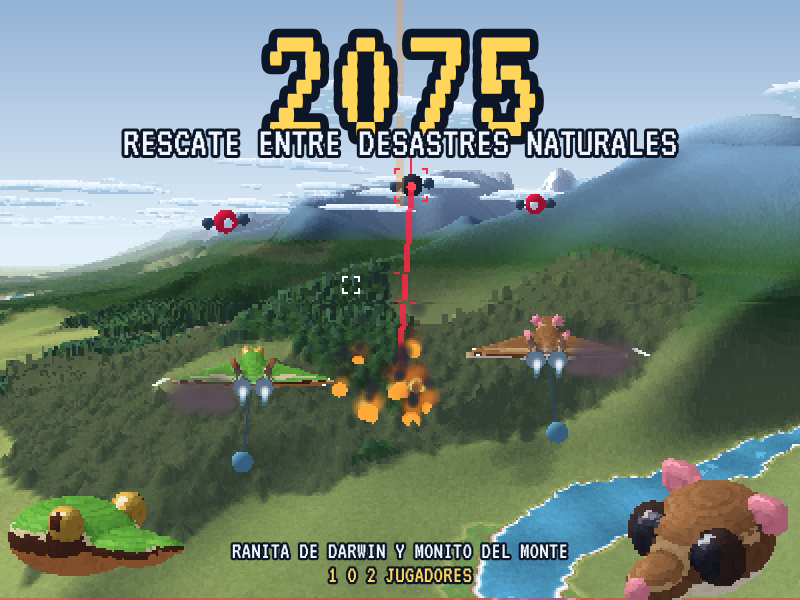
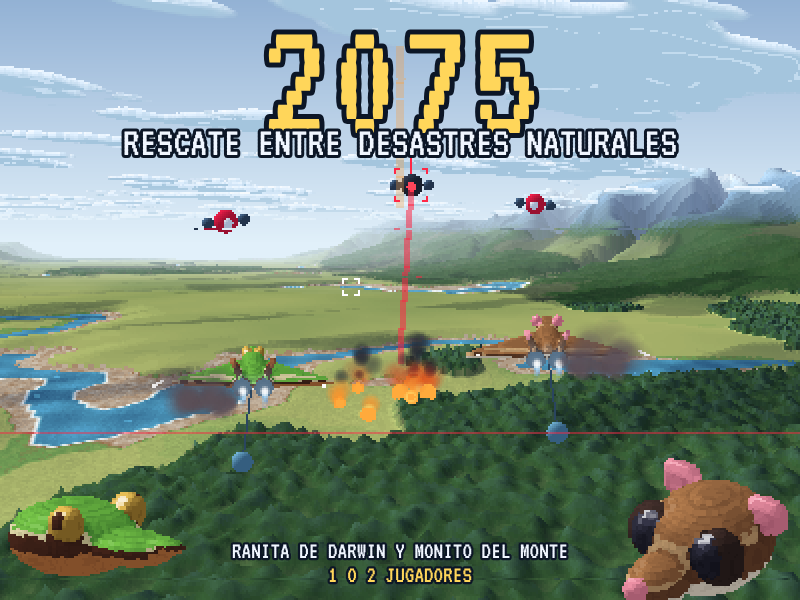
Título 2075 en dorado, con borde más fino

diff --git a/game.js b/game.js
@@ -2568,7 +2568,7 @@ function text(str, x, y, colour, size, align) {
   str = String(str);
   size = SIZES[size || 1];
   if (t.text !== str) t.setText(str);
-  if (t.size !== size) t.setFontSize((t.size = size)).setStroke('#0c1626', 2.5 + size / 12);
+  if (t.size !== size) t.setFontSize((t.size = size)).setStroke('#0c1626', Math.min(10, 2.5 + size / 12));
   if (t.ink !== colour) {
     t.ink = colour;
     t.setColor('#' + (((colour & 255) << 16) | (colour & 0xff00) | ((colour >> 16) & 255)).toString(16).padStart(6, '0'));
@@ -2741,7 +2741,7 @@ function drawHud() {
     text('RANITAS Y MONITOS SÚPER INTELIGENTES PILOTEAN LA DEFENSA', CXS, 21, DIM, 1, 1);
     if (over) text('FIN DEL VUELO', CXS, 62, INK, 4, 1);
     else {
-      text('2075', CXS, 30, INK, 5, 1);
+      text('2075', CXS, 30, GOLD, 5, 1);
       text('RESCATE ENTRE DESASTRES NATURALES', CXS, 88, INK, 2, 1);
     }
     const naming = over && gName && gPos < 3;
